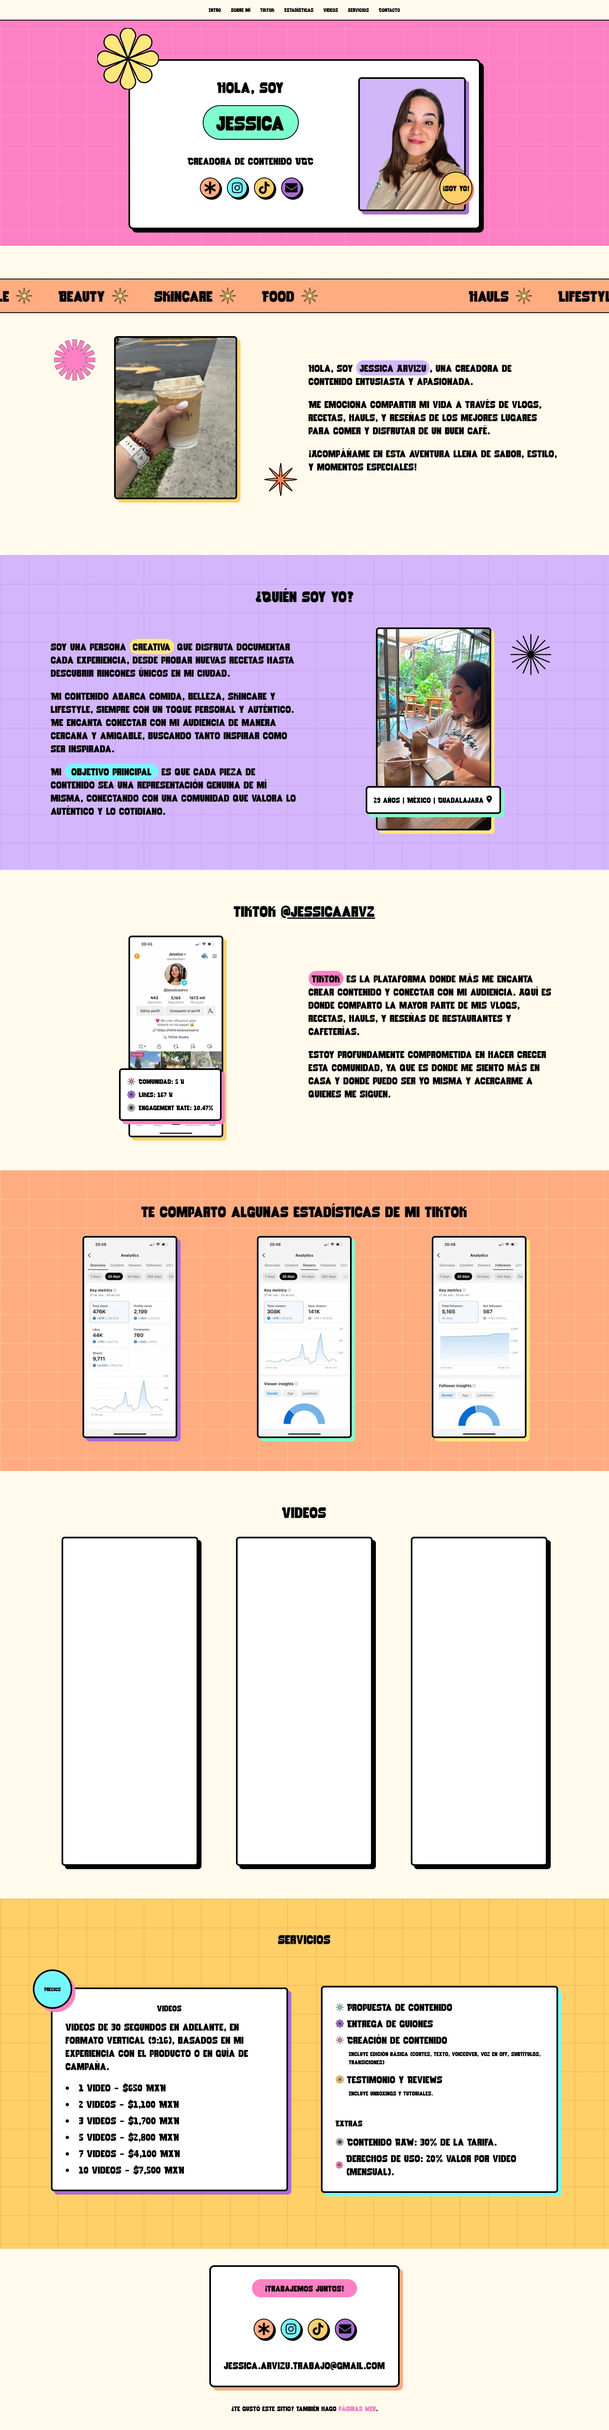
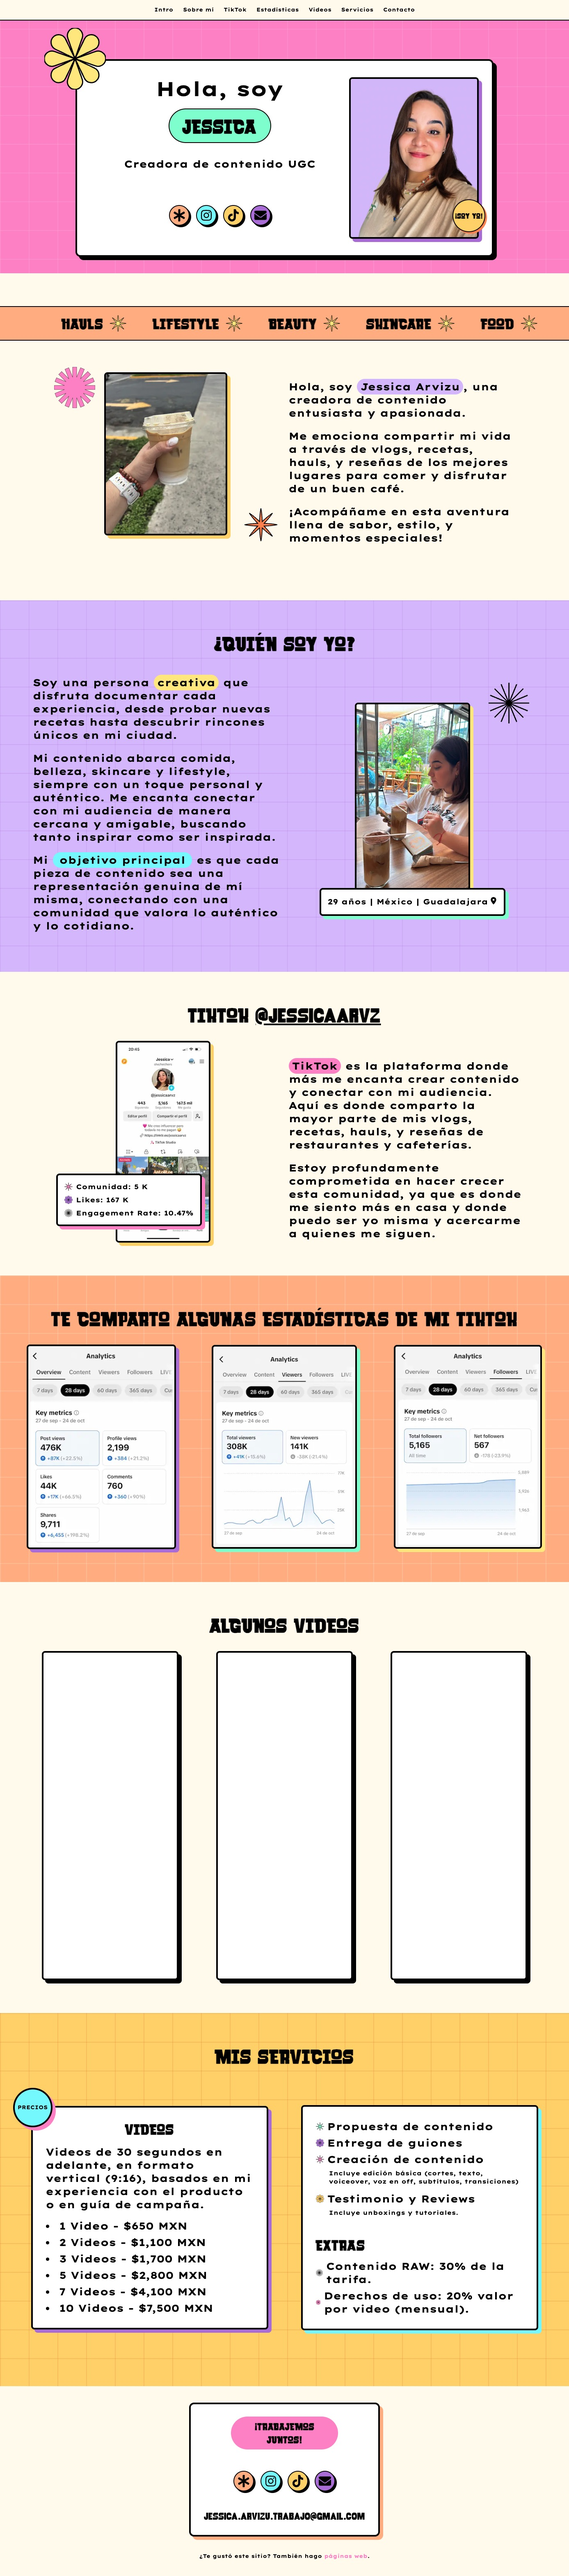
Font change

Changed region(s): [[0.0, 0.0, 1.0, 0.9956], [0.682, 0.7467, 0.713, 0.7778], [0.093, 0.7467, 0.124, 0.7778]]

diff --git a/src/sections/Header.tsx b/src/sections/Header.tsx
@@ -6,26 +6,25 @@ import Star2 from "@/components/ui/star2-icon";
 export default function Header() {
 
   return (
-    <header className="inset-0 pt-16 p-10 lg:pt-36 flex w-full flex-col items-center justify-center bg-[#FF8ACD] bg-[linear-gradient(to_right,#FFC6E733_2px,transparent_1px),linear-gradient(to_bottom,#FFC6E733_2px,transparent_1px)] bg-[size:70px_70px]">
+    <header className="inset-0 font-Lexend pt-16 p-10 lg:pt-36 flex w-full flex-col items-center justify-center bg-[#FF8ACD] bg-[linear-gradient(to_right,#FFC6E733_2px,transparent_1px),linear-gradient(to_bottom,#FFC6E733_2px,transparent_1px)] bg-[size:70px_70px]">
       <div className="mx-auto max-w-full px-8 py-10 text-center bg-white rounded-xl border-4 border-black flex flex-col lg:flex-row h-full shadow-[8px_8px_0px_#000] relative">
         <div className="absolute -top-10 -left-10 lg:-top-20 lg:-left-20">
           <Star2 color='#FFEA80' size='150px' />
         </div>
         <div className="flex flex-col justify-between w-full mt-20 lg:mt-1 lg:w-2/3">
           <div className="flex flex-col items-center justify-center">
-            <h2 className="text-2xl font-heading md:text-3xl lg:text-4xl">
+            <h2 className="text-4xl font-heading md:text-3xl lg:text-5xl">
               Hola, soy
             </h2>
             <br />
-            <h1 className="text-2xl font-heading md:text-4xl lg:text-5xl rounded-full p-4 px-8 bg-mint border-2 border-black">
-              Jessica
+            <h1 className="text-5xl font-Rocket font-heading rounded-full p-4 px-8 bg-mint border-2 border-black">
+              JESSICA
             </h1>
-          </div>
-
-          <div className="">
-            <p className="mt-5 mb-5 lg:mt-8 text-lg font-normal leading-relaxed md:text-xl lg:text-2xl lg:leading-relaxed">
-              Creadora de contenido UGC
-            </p>
+            <div className="">
+              <p className="mt-5 mb-5 lg:mt-8 text-lg font-normal leading-relaxed md:text-xl lg:text-2xl lg:leading-relaxed">
+                Creadora de contenido UGC
+              </p>
+            </div>
           </div>
 
           <div className="flex justify-center space-x-4 pb-8">
@@ -64,7 +63,7 @@ export default function Header() {
             height={600}
           />
           <div className="absolute z-10 bottom-0 right-0 mb-4 -mr-4 h-20 w-20 bg-yellow rounded-full flex items-center justify-center border-2 border-black shadow-[4px_4px_0px_#FF8A50]">
-            <span className="text-black text-lg font-bold">¡Soy yo!</span>
+            <span className="text-black text-lg font-bold font-Rocket">¡SOY YO!</span>
           </div>
         </div>
       </div>

diff --git a/src/sections/Tiktok.tsx b/src/sections/Tiktok.tsx
@@ -8,10 +8,10 @@ export default function TikTok() {
     return (
         <section
             id='tiktok'
-            className="bg-bg py-10 lg:py-20">
+            className="bg-bg py-10 lg:py-20 lg:px-20 font-Lexend">
             <div className="mx-auto w-container max-w-full pb-10">
-                <h2 className="text-center text-2xl font-heading md:text-3xl lg:text-4xl">
-                    TikTok <a href="https://www.tiktok.com/@jessicaarvz" target="_blank" rel="noopener noreferrer" className="underline cursor-pointer">@jessicaarvz</a>
+                <h2 className="text-center text-4xl font-heading lg:text-5xl font-Rocket">
+                    TIKTOK <a href="https://www.tiktok.com/@jessicaarvz" target="_blank" rel="noopener noreferrer" className="underline cursor-pointer">@jessicaarvz</a>
                 </h2>
             </div>
 
@@ -20,11 +20,11 @@ export default function TikTok() {
                     <Image
                         className="rounded-lg border-4 border-black shadow-[8px_8px_0px_#FFD567]"
                         src={tiktokShot}
-                        alt="Un vaso de latte frío"
+                        alt="Perfil de TikTok"
                         height={500}
                     />
 
-                    <div className="absolute bottom-10 right-16 lg:right-48 bg-white border-4 border-black p-4 rounded-lg shadow-[8px_8px_0px_#FF8ACD]">
+                    <div className="absolute bottom-10 right-20 lg:right-48 bg-white border-4 border-black p-4 rounded-lg shadow-[8px_8px_0px_#FF8ACD]">
                         <ul className="text-base list-none space-y-2">
                             <li className="flex items-center">
                                 <Star3 color='#FF8ACD' size='20px' />
@@ -42,7 +42,7 @@ export default function TikTok() {
                     </div>
 
                 </div>
-                <div className="flex flex-col justify-center lg:col-span-1">
+                <div className="flex flex-col justify-center lg:col-span-1 mt-10">
                     <p className="text-sm font-normal leading-relaxed md:text-lg lg:text-xl xl:text-2xl">
                         <span className="rounded-full p-1 px-2 bg-mainPink"> TikTok</span> es la plataforma donde más me encanta crear
                         contenido y conectar con mi audiencia. Aquí es donde

diff --git a/src/sections/Services.tsx b/src/sections/Services.tsx
@@ -6,20 +6,20 @@ export default function Services() {
   return (
     <section
       id='services'
-      className="inset-0 lg:px-10 py-10 lg:py-20 flex w-full flex-col items-center justify-center bg-[#FFD567] bg-[linear-gradient(to_right,#E27F2E33_2px,transparent_1px),linear-gradient(to_bottom,#E27F2E33_2px,transparent_1px)] bg-[size:70px_70px]">
+      className="inset-0 px-5 py-10 lg:py-20 flex w-full flex-col items-center justify-center bg-[#FFD567] bg-[linear-gradient(to_right,#E27F2E33_2px,transparent_1px),linear-gradient(to_bottom,#E27F2E33_2px,transparent_1px)] bg-[size:70px_70px] font-Lexend">
       <div className="mx-auto w-container max-w-full pb-10">
-        <h2 className="text-center text-2xl font-heading md:text-3xl lg:text-4x">
-          Servicios
+        <h2 className="text-center text-4xl font-heading md:text-3xl lg:text-5xl font-Rocket">
+          MIS SERVICIOS
         </h2>
       </div>
 
       <div className="mx-auto grid w-container max-w-full grid-cols-1 gap-20 px-8 lg:px-[20] md:grid-cols-1 lg:grid-cols-2">
         <div className="relative flex items-center lg:col-span-1">
           <div className="w-full bg-white border-4 border-black p-8 rounded-lg shadow-[8px_8px_0px_#b377df] relative">
-            <h2 className="text-xl text-center font-semibold md:mb-4 lg:mb-4">Videos</h2>
+            <h2 className="text-3xl mb-5 lg:text-4xl text-center font-semibold font-Rocket">VIDEOS</h2>
             <div className="absolute top-0 left-0 -translate-x-1/2 -translate-y-1/2 p-2">
               <div className="w-16 h-16 lg:w-24 lg:h-24 bg-blue text-black rounded-full flex items-center justify-center border-4 border-black shadow-[8px_8px_0px_#FF8ACD]">
-                <span className="text-[8px] lg:text-xs">Precios</span>
+                <span className="text-[8px] lg:text-xs">PRECIOS</span>
               </div>
             </div>
             <div>
@@ -90,7 +90,7 @@ export default function Services() {
               </li>
             </ul>
             <br />
-            <h2 className="text-xl font-semibold mb-4">Extras</h2>
+            <h2 className="text-3xl lg:text-4xl font-semibold mb-4 font-Rocket">EXTRAS</h2>
             <ul className="text-base list-none space-y-2">
               <li className="flex items-center">
                 <Star4 color='#88FFD1' size='20px' />

diff --git a/src/sections/Contact.tsx b/src/sections/Contact.tsx
@@ -3,13 +3,13 @@ import { FaInstagram, FaTiktok, FaEnvelope, FaAsterisk } from 'react-icons/fa';
 export default function Contact() {
     return (
         <footer id='contact'
-            className="inset-0 p-10 flex w-full flex-col items-center justify-center bg-bg">
+            className="font-Rocket inset-0 p-10 flex w-full flex-col items-center justify-center bg-bg">
             <div className="mx-auto max-w-full items-center justify-center px-8 py-10 text-center lg:py-[30px] bg-white rounded-xl border-4 border-black flex flex-col lg:flex-row h-full shadow-[8px_8px_0px_#FFB587] relative">
 
                 <div className="flex flex-col items-center justify-center w-full lg:w-2/3 h-full space-y-3">
                     <div className="flex flex-col items-center justify-center">
-                        <h2 className="text-md mb-10 font-heading md:text-3xl lg:text-xl rounded-full p-2 px-4lg:p-4 lg:px-8 bg-mainPink">
-                            ¡Trabajemos juntos!
+                        <h2 className="text-2xl mb-10 font-heading rounded-full p-2 px-4 bg-mainPink">
+                            ¡TRABAJEMOS JUNTOS!
                         </h2>
                     </div>
 
@@ -40,14 +40,12 @@ export default function Contact() {
                         </a>
                     </div>
 
-                    <div className="">
-                        <p className="text-[8px] font-normal leading-relaxed md:text-xl lg:text-2xl lg:leading-relaxed">
-                            jessica.arvizu.trabajo@gmail.com
-                        </p>
-                    </div>
+                    <p className="font-normal leading-relaxed lg:text-2xl">
+                        jessica.arvizu.trabajo@gmail.com
+                    </p>
                 </div>
             </div>
-            <div className='mt-10'>
+            <div className='mt-10 font-Lexend text-xs'>
                 ¿Te gustó este sitio? También hago
                 <a href='https://www.jessicaarvizu.com'
                     target="_blank"

diff --git a/src/sections/Intro.tsx b/src/sections/Intro.tsx
@@ -8,14 +8,14 @@ export default function Intro() {
   return (
     <section
       id='intro'
-      className="bg-bg py-10 lg:py-20">
+      className="bg-bg py-10 lg:py-20 font-Lexend">
       <Marquee
-        className="border-y-border border-y-2 border-black bg-orange py-3 font-base sm:py-5"
+        className="font-Rocket border-y-border border-y-2 border-black bg-orange py-3 font-base sm:py-5"
         direction="left"
       >
-        {['Hauls', 'Lifestyle', 'Beauty', 'Skincare', 'Food'].map((text, index) => (
+        {['HAULS', 'LIFESTYLE', 'BEAUTY', 'SKINCARE', 'FOOD'].map((text, index) => (
           <div className="flex items-center mx-6" key={index}>
-            <span className="text-xl font-heading sm:text-2xl lg:text-4xl mx-4">
+            <span className="text-3xl font-heading sm:text-2xl lg:text-4xl mx-4">
               {text}
             </span>
             <Star3 color={'#FFEA80'} size={'40px'} />
@@ -23,7 +23,7 @@ export default function Intro() {
         ))}
       </Marquee>
 
-      <div className="mx-auto my-14 grid w-container max-w-full grid-cols-1 gap-5 px-8 lg:px-[20] sm:grid-cols-1 lg:grid-cols-2">
+      <div className="mx-auto my-14 px-10 grid w-container max-w-full grid-cols-1 gap-5 lg:px-20 sm:grid-cols-1 lg:grid-cols-2">
         <div className="relative flex items-center justify-center lg:col-span-1">
           <Image
             className="rounded-lg border-4 border-black shadow-[8px_8px_0px_#FFD567]"
@@ -41,7 +41,7 @@ export default function Intro() {
           </div>
         </div>
 
-        <div className="flex flex-col justify-center lg:col-span-1">
+        <div className="flex flex-col justify-center lg:col-span-1 mt-10">
           <p className="text-sm font-normal leading-relaxed md:text-lg lg:text-xl xl:text-2xl">
             Hola, soy <span className="rounded-full p-1 px-2 bg-lavender">Jessica Arvizu</span>, una creadora de contenido
             entusiasta y apasionada.

diff --git a/src/sections/Stats.tsx b/src/sections/Stats.tsx
@@ -8,14 +8,14 @@ export default function Stats() {
     return (
         <section
             id='stats'
-            className="inset-0 py-10 lg:py-20 flex w-full flex-col items-center justify-center bg-[#FFB587] bg-[linear-gradient(to_right,#FFF4DE33_2px,transparent_1px),linear-gradient(to_bottom,#FFF4DE33_2px,transparent_1px)] bg-[size:70px_70px]">
+            className="font-Rocket inset-0 py-10 px-10 lg:py-20 flex w-full flex-col items-center justify-center bg-[#FFB587] bg-[linear-gradient(to_right,#FFF4DE33_2px,transparent_1px),linear-gradient(to_bottom,#FFF4DE33_2px,transparent_1px)] bg-[size:70px_70px]">
             <div className="mx-auto w-container max-w-full pb-10">
-                <h2 className="text-center text-xl font-heading md:text-3xl lg:text-4xl">
-                    Te comparto algunas estadísticas de mi TikTok
+                <h2 className="text-center text-4xl font-heading lg:text-5xl">
+                    TE COMPARTO ALGUNAS ESTADÍSTICAS DE MI TIKTOK
                 </h2>
             </div>
 
-            <div className="mx-auto grid w-container max-w-full grid-cols-1 gap-10 px-8 lg:px-[20] sm:grid-cols-1 lg:grid-cols-3">
+            <div className="mx-auto grid w-container max-w-full grid-cols-1 gap-10 lg:px-[20] sm:grid-cols-1 lg:grid-cols-3">
                 <div className="relative flex items-center justify-center lg:col-span-1">
                     <Image
                         className="rounded-lg border-4 border-black shadow-[8px_8px_0px_#b377df]"

diff --git a/src/sections/AboutMe.tsx b/src/sections/AboutMe.tsx
@@ -7,15 +7,15 @@ export default function AboutMe() {
   return (
     <section
       id='about_me'
-      className="flex flex-col lg:py-10 items-center justify-center bg-lavender bg-[linear-gradient(to_right,#b377df33_1px,transparent_2px),linear-gradient(to_bottom,#b377df33_2px,transparent_1px)] bg-[size:70px_70px] font-base"
+      className="font-Lexend flex flex-col lg:py-10 px-10 lg:px-20 items-center justify-center bg-lavender bg-[linear-gradient(to_right,#b377df33_1px,transparent_2px),linear-gradient(to_bottom,#b377df33_2px,transparent_1px)] bg-[size:70px_70px] font-base"
     >
       <div className="mx-auto w-container max-w-full">
-        <h2 className="text-center mt-10 text-2xl font-heading md:text-3xl lg:text-4xl">
-          ¿Quién soy yo?
+        <h2 className="text-center font-Rocket mt-10 text-4xl font-heading md:text-3xl lg:text-5xl">
+          ¿QUIÉN SOY YO?
         </h2>
       </div>
 
-      <div className="mx-auto my-14 grid w-container max-w-full grid-cols-1 gap-5 px-8 lg:px-[20] sm:grid-cols-1 lg:grid-cols-2">
+      <div className="mx-auto my-14 grid w-container max-w-full grid-cols-1 gap-5 lg:px-[20] sm:grid-cols-1 lg:grid-cols-2">
         <div className="flex flex-col justify-center lg:col-span-1">
           <p className="text-sm font-normal leading-relaxed md:text-lg lg:text-xl xl:text-2xl">
             Soy una persona <span className="rounded-full p-1 px-2 bg-lightYellow">creativa</span> que disfruta documentar cada experiencia,

diff --git a/src/app/layout.tsx b/src/app/layout.tsx
@@ -1,5 +1,6 @@
 import type { Metadata } from "next";
 import "./globals.css";
+import { Lexend_Mega } from "next/font/google"
 import localFont from 'next/font/local'
 import { SpeedInsights } from "@vercel/speed-insights/next"
 
@@ -7,7 +8,16 @@ export const metadata: Metadata = {
   title: "Jessica Arvizu UGC",
 };
 
-const rocket_thunder = localFont({ src: '../public/fonts/RocketThunder-Regular.otf'})
+const rocket_thunder = localFont({ 
+  src: '../public/fonts/RocketThunder-Regular.otf',
+  variable: '--font-Rocket'
+})
+
+const lexend_mega = Lexend_Mega({
+  weight: '700',
+  subsets: ['latin'],
+  variable: '--font-Lexend',
+})
 
 export default function RootLayout({
   children,
@@ -17,7 +27,7 @@ export default function RootLayout({
   return (
     <html lang="en">
       <body
-        className={`${rocket_thunder.className}`}
+        className={`${lexend_mega.variable} ${rocket_thunder.variable}`}
       >
         {children}
         <SpeedInsights />

diff --git a/src/sections/Videos.tsx b/src/sections/Videos.tsx
@@ -4,10 +4,10 @@ export default function Videos() {
     return (
         <section
             id='videos'
-            className="bg-bg py-10 lg:py-20">
+            className="bg-bg py-10 lg:py-20 font-Rocket">
             <div className="mx-auto w-container max-w-full pb-10">
-                <h2 className="text-center text-2xl font-heading md:text-3xl lg:text-4xl">
-                    Videos
+                <h2 className="text-center text-4xl font-heading md:text-3xl lg:text-5xl">
+                    ALGUNOS VIDEOS
                 </h2>
             </div>
 

diff --git a/src/components/sidebar.tsx b/src/components/sidebar.tsx
@@ -9,7 +9,7 @@ export default function Sidebar() {
     };
 
     return (
-        <div>
+        <div className='font-Lexend'>
             {/* Botón para abrir/cerrar el sidebar (visible en dispositivos pequeños y medianos) */}
             <button
                 className="text-3xl p-4 lg:hidden fixed top-4 right-4 z-30 rounded-full border-black border-2 bg-lightYellow shadow-[4px_4px_0px_#000]"

diff --git a/tailwind.config.ts b/tailwind.config.ts
@@ -10,6 +10,10 @@ const config: Config = {
   ],
   theme: {
     extend: {
+      fontFamily:{
+        Rocket:['var(--font-Rocket)'],
+        Lexend:['var(--font-Lexend)'],
+      },
       width: {
         container: '1300px',
       },
